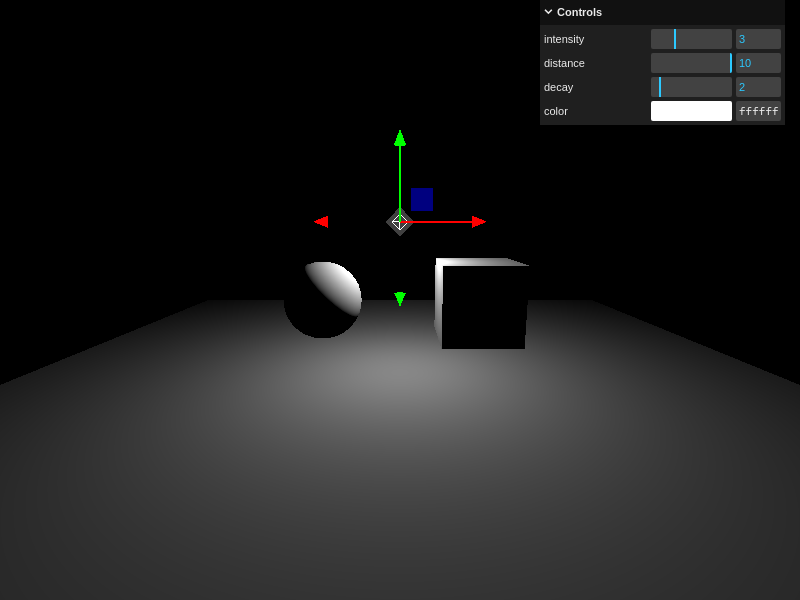
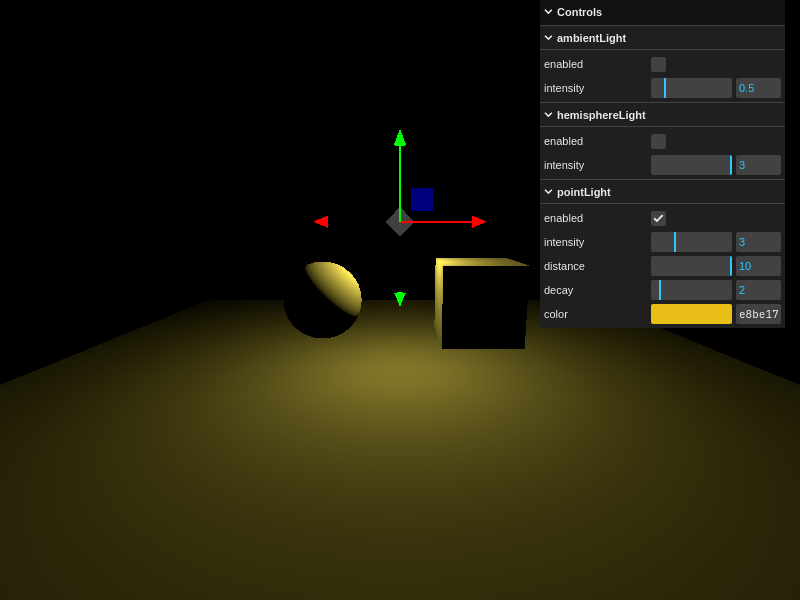
add more light types+cleanup a bit

diff --git a/lesson4/second/main.ts b/lesson4/second/main.ts
@@ -3,8 +3,14 @@ import { setup3D } from './common_setup';
 import { TransformControls } from 'three/examples/jsm/Addons.js';
 import { GUI } from 'lil-gui';
 
+/*
+ ** Scene Setup
+ */
 const { scene, camera, canvas, orbit } = setup3D({});
 
+/*
+ ** Shapes
+ */
 const material = new THREE.MeshStandardMaterial();
 
 const floor = new THREE.Mesh(
@@ -16,8 +22,6 @@ floor.position.set(0, -1, 0);
 floor.rotation.x = -Math.PI / 2;
 floor.scale.set(10, 10, 1);
 
-scene.add(floor);
-
 const sphere = new THREE.Mesh(
   new THREE.SphereGeometry(0.5),
   material,
@@ -26,41 +30,66 @@ const cube = new THREE.Mesh(
   new THREE.BoxGeometry(),
   material,
 );
+
 cube.position.set(1, 0, 0);
 sphere.position.set(-1, 0, 0);
-scene.add(sphere, cube);
+scene.add(sphere, cube, floor);
 
-// scene.add(
-//   new THREE.AmbientLight(0xffffff, 0.5),
-// );
+/*
+ ** Lights
+ */
+
+const lightGroup = new THREE.Group();
+lightGroup.position.y = 1;
+scene.add(lightGroup);
+
+const ambientLight = new THREE.AmbientLight(0xffffff, 0.5);
+ambientLight.visible = false;
+lightGroup.add(
+  ambientLight,
+);
 
 // const directionalLight = new THREE.DirectionalLight(0x00ffff, 0.5);
-// directionalLight.position.set(1, 0.25, 0);
-// scene.add(directionalLight);
+// lightGroup.add(directionalLight);
 
-// const hemisphereLight = new THREE.HemisphereLight(0xff00000, 0x0000ff, 3);
-// const hemisphereLightHelper = new THREE.HemisphereLightHelper(
-//   hemisphereLight,
-//   0.3,
-// );
-// scene.add(hemisphereLight, hemisphereLightHelper);
+const hemisphereLight = new THREE.HemisphereLight(0xff00000, 0x0000ff, 3);
+hemisphereLight.visible = false;
+lightGroup.add(hemisphereLight);
 
-const pointLight = new THREE.PointLight(0xffffff, 3, 10);
-const pointLightHelper = new THREE.PointLightHelper(pointLight, 0.1);
-pointLight.position.set(0, 1, 0);
-const transformControls = new TransformControls(camera, canvas);
-transformControls.attach(pointLight);
-transformControls.addEventListener('dragging-changed', (event) => {
-  orbit.enabled = !event.value;
-});
-
-scene.add(pointLight, pointLightHelper, transformControls);
+const pointLight = new THREE.PointLight(0xf5e056, 3, 10);
+lightGroup.add(pointLight);
 
 /**
- * DEBUG GUI
+ * DEBUG
  */
+const transformControls = new TransformControls(camera, canvas);
+transformControls.mode = 'translate';
+transformControls.attach(lightGroup);
+transformControls.addEventListener('dragging-changed', (event) => {
+  // Don't move the camera when moving the transform controls
+  orbit.enabled = !event.value;
+});
+scene.add(transformControls);
+
 const gui = new GUI();
-gui.add(pointLight, 'intensity', 0, 10);
-gui.add(pointLight, 'distance', 0, 10);
-gui.add(pointLight, 'decay', 1, 10);
-gui.addColor(pointLight, 'color');
+
+{
+  const ambientLightGUI = gui.addFolder('ambientLight');
+  ambientLightGUI.add(ambientLight, 'visible').name('enabled');
+  ambientLightGUI.add(ambientLight, 'intensity', 0, 3);
+}
+
+{
+  const hemisphereLightGUI = gui.addFolder('hemisphereLight');
+  hemisphereLightGUI.add(hemisphereLight, 'visible').name('enabled');
+  hemisphereLightGUI.add(hemisphereLight, 'intensity', 0, 3);
+}
+
+{
+  const pointLightGUI = gui.addFolder('pointLight');
+  pointLightGUI.add(pointLight, 'visible').name('enabled');
+  pointLightGUI.add(pointLight, 'intensity', 0, 10);
+  pointLightGUI.add(pointLight, 'distance', 0, 10);
+  pointLightGUI.add(pointLight, 'decay', 1, 10);
+  pointLightGUI.addColor(pointLight, 'color');
+}
